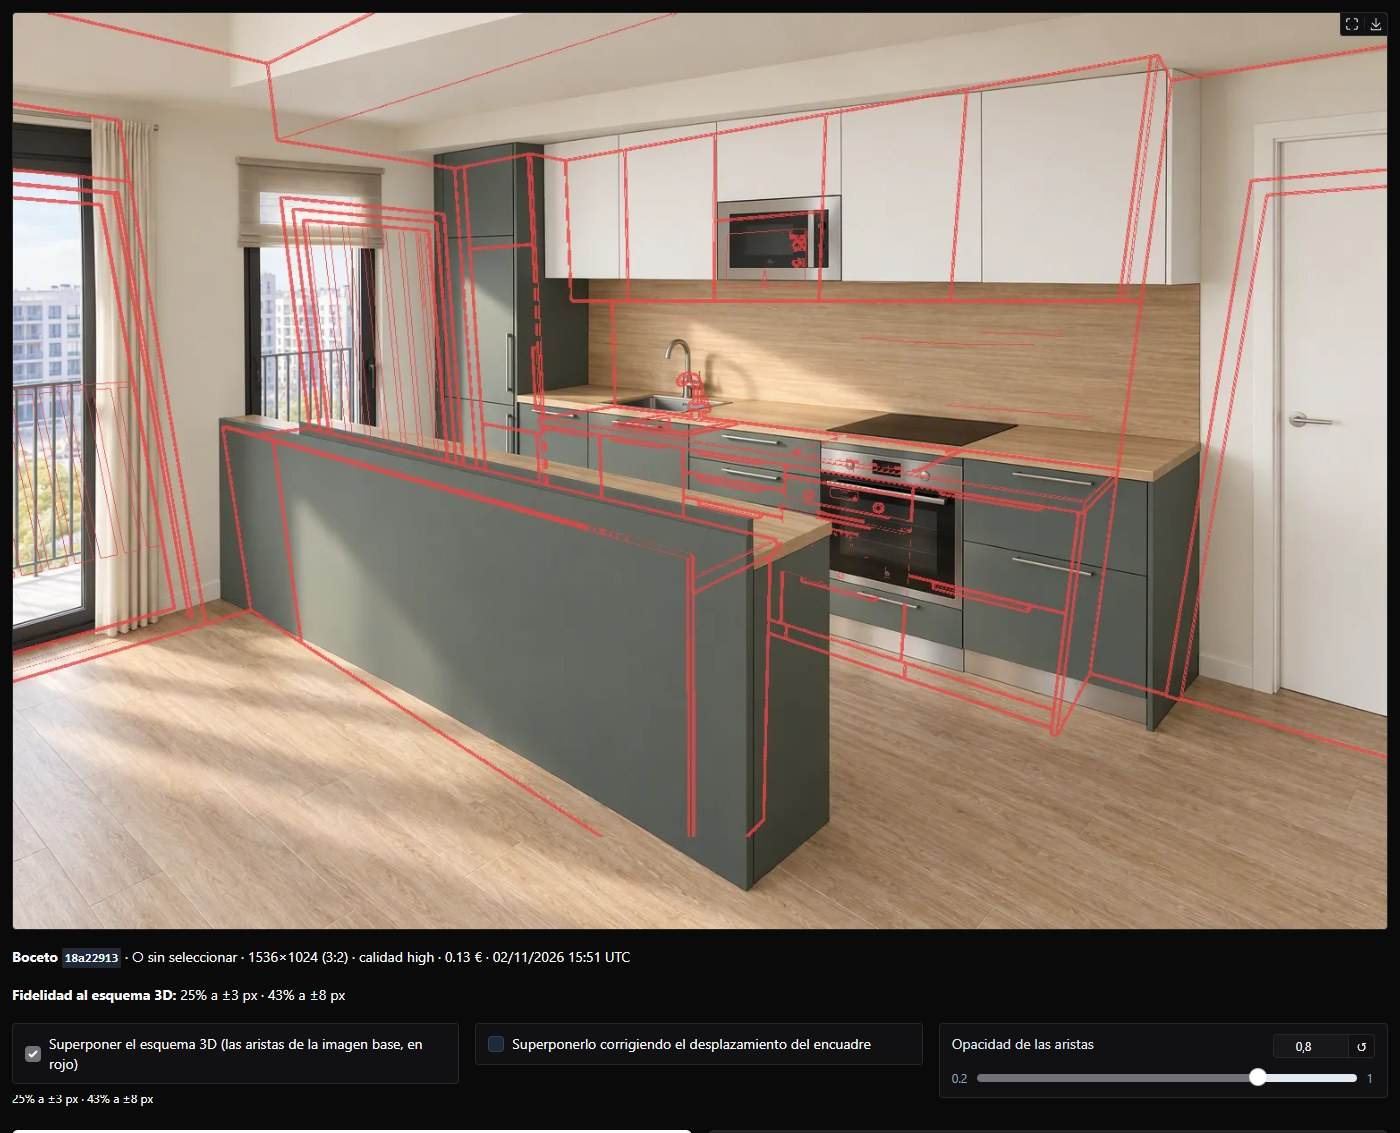
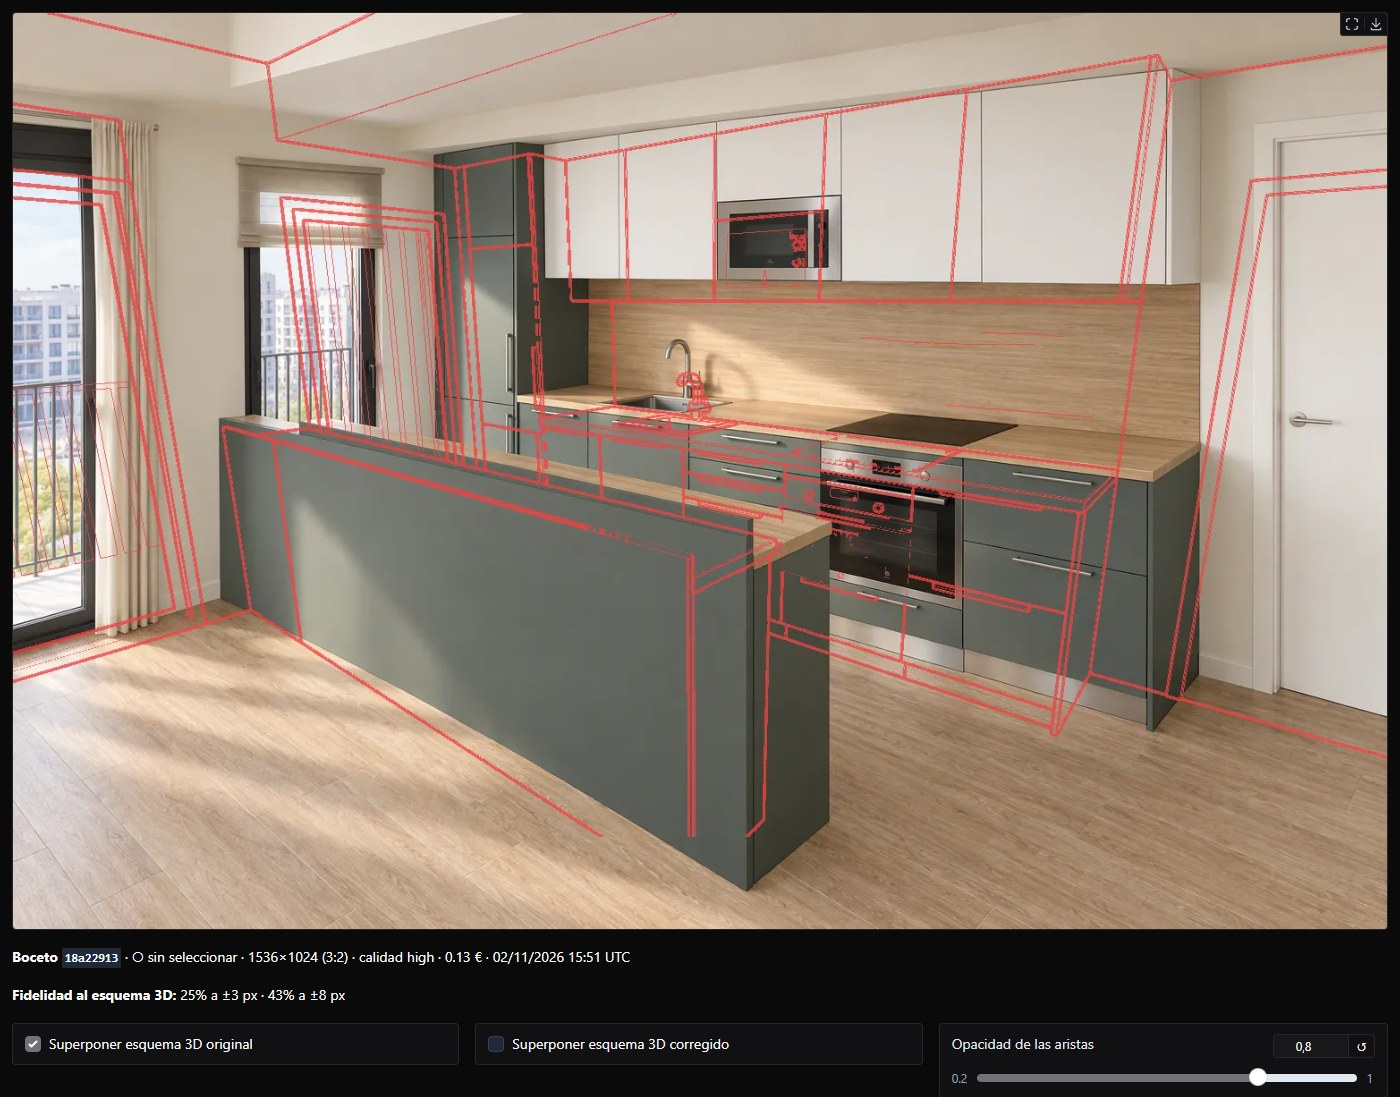
feat: paso 56 - versión 4.2.0
La geometría del esquema 3D, medida y a la vista: superponerlo sobre cualquier
imagen, saber cuánto se parece y poder componer partiendo de él. Agrupa los
Pasos 46 a 55 (B-115 a B-126).

Las entradas del CHANGELOG describen el estado final de cada función, no el
camino: la superposición se cuenta una vez, tal como queda, en lugar de
encadenar lo que cambió en los Pasos 47, 49, 51 y 55.

Rehechas las tres capturas del manual de la superposición (B-126) con la
aplicación en mock y un proyecto real; solo se navega y se fotografía, sin
generar ni modificar nada y sin ninguna llamada a IA.

diff --git a/docs/pasos/BACKLOG.md b/docs/pasos/BACKLOG.md
@@ -119,14 +119,14 @@ Elementos diferidos o pendientes de verificación. Cada entrada enlaza al paso q
 | B-113 | **Controles bloqueados mientras se procesa**: con «procesando» se podían marcar «Usar la auditoría» o «Usar el retoque», cambiar la calidad, el formato o las variantes, o escribir; deben bloquearse como los botones | Observación del usuario (2026-11-02) | [Plan 4.1.0](plan-version-4-1.md): Paso 44 | ✅ Resuelto en el [Paso 44](paso-44-controles.md) |
 | B-114 | **CI de `main` en rojo tras el Paso 44**: (1) el id `iai-confirm-delete` (Paso 43) coincidía con el patrón de las confirmaciones de coste del bloqueo, que entonces bloqueaba el «Cancelar» de la papelera; (2) las pruebas E2E pulsaban justo cuando empezaba una carga y el clic se ignoraba | [Paso 45](paso-45-version-4-1.md) | Antes de publicar la 4.1.0 | ✅ Resuelto en el [Paso 45](paso-45-version-4-1.md) |
 | B-115 | **Cuadros de texto que no se vaciaban**: las indicaciones, el cambio del retoque y las observaciones de la auditoría seguían ahí tras enviarse, al cambiar de imagen y al cambiar de proyecto (se podían enviar por error con otra imagen u otro proyecto); y las indicaciones no se guardaban con la imagen | Observación del usuario (2026-11-03) | Paso 46 | ✅ Resuelto en el [Paso 46](paso-46-textos.md) |
-| B-116 | **Geometría fiel al esquema 3D de SketchUp**: bocetos, composiciones y renders se apartan de los volúmenes del esquema base; poder superponerlo y medirlo, y acercarse lo máximo posible sin postproducción | Petición del usuario (2026-11-03) | Pasos 47 a 50 | ⏳ Medida y superposición (Paso 47), laboratorio ([Paso 48](paso-48-laboratorio-geometria.md)), desplazamiento del encuadre ([Paso 49](paso-49-encuadre.md)) y los prompts y el esquema como base de la composición ([Paso 50](paso-50-geometria-prompts.md)); falta la prueba real en `azure` |
+| B-116 | **Geometría fiel al esquema 3D de SketchUp**: bocetos, composiciones y renders se apartan de los volúmenes del esquema base; poder superponerlo y medirlo, y acercarse lo máximo posible sin postproducción | Petición del usuario (2026-11-03) | Pasos 47 a 50 | ⏳ Publicado en la 4.2.0: medida y superposición (Paso 47), laboratorio ([Paso 48](paso-48-laboratorio-geometria.md)), desplazamiento del encuadre ([Paso 49](paso-49-encuadre.md)), los prompts y el esquema como base de la composición ([Paso 50](paso-50-geometria-prompts.md)) y la superposición tal como queda ([Paso 55](paso-55-superposicion.md)). El zum se cerró sin implementar ([Paso 54](paso-54-cierre-del-zum.md), B-117); falta la prueba real en `azure` |
 | B-117 | **El zum del encuadre**: la escena generada sale más pequeña que el esquema y se ve en la superposición, pero contar píxeles cerca no lo mide bien (tres criterios probados en el [Paso 49](paso-49-encuadre.md)). Haría falta emparejar estructuras | [Paso 49](paso-49-encuadre.md) | Paso 54 | ✅ Cerrado en el [Paso 54](paso-54-cierre-del-zum.md) sin implementar (decisión del usuario): cinco criterios de cuatro familias fallan, incluido Fourier-Mellin; el zum ya se ve en la superposición y el número no cambia la decisión. La conclusión útil (partir de vistas de dos puntos de fuga y focal normal) pasa al manual |
 | B-118 | **La portada del proyecto activo, en grande**: con muchos proyectos, al elegir uno de abajo la ficha (nombre, descripción, resumen, llamadas) queda lejos de su tarjeta y se pierde de vista qué proyecto se está mirando. Repetir su portada a todo el ancho, arriba de la columna derecha | Petición del usuario (2026-11-07) | Paso 51 | ✅ Resuelto en el [Paso 51](paso-51-portada-geometria.md) |
 | B-119 | **Las medidas de la geometría, fuera de la imagen**: el dato en rojo con reborde negro sobre la superposición ([Paso 49](paso-49-encuadre.md)) tapa la escena y se lee mal. Llevarlo debajo de la casilla de cada comparativa y hacer las dos casillas excluyentes: al marcar una se desmarca la otra | Petición del usuario (2026-11-07) | Paso 51 | ✅ Resuelto en el [Paso 51](paso-51-portada-geometria.md) |
 | B-120 | **E2E intermitentes en local con Edge**: `page.goto` falla a veces con `net::ERR_ABORTED` aunque el frontend responda 200 (de 1 a 3 pruebas por tanda, distintas cada vez). Se comprobó en el [Paso 51](paso-51-portada-geometria.md) que pasa igual con el código de `main`: es del entorno local, no de un cambio. Al repetirlas sueltas pasan y en la CI (Chromium) pasan las ocho. Valorar un reintento en `ui.open()` | [Paso 51](paso-51-portada-geometria.md) | Sin fecha | ⏳ Abierto |
 | B-121 | **Prueba E2E de las superposiciones geométricas**: comprobar en el navegador el cableado, la exclusión mutua, las medidas bajo cada casilla, las vistas que aparecen y desaparecen y la vuelta al visor normal | Revisión de la PR #73 | Paso 52 | ✅ Resuelto en el [Paso 52](paso-52-pruebas-capturas-proteccion.md) |
 | B-122 | **Documentar el ciclo de trabajo para agentes**: registrar peticiones, analizar antes de proponer, esperar autorización, validar los cambios y entregar con trazabilidad hasta la revisión y el merge del usuario | Petición del usuario en este chat (2026-11-07) | Paso 53 | ✅ Resuelto en el [Paso 53](paso-53-flujo-de-trabajo.md) |
-| B-123 | **La medida de la superposición se corta bajo la casilla**: moverla a «Fidelidad al esquema 3D»; ninguna marcada o «original» muestra `fidelity()`, «corregido» muestra `alignment()` y al desmarcar vuelve la medida original | Observación del usuario (2026-11-08) | Paso 55 | ⏳ En curso; se resolverá al integrar la PR del [Paso 55](paso-55-superposicion.md) |
-| B-124 | **Aclarar los textos de las casillas de superposición**: deben decir exactamente «Superponer esquema 3D original» y «Superponer esquema 3D corregido» | Observación del usuario (2026-11-08) | Paso 55 | ⏳ En curso; se resolverá al integrar la PR del [Paso 55](paso-55-superposicion.md) |
-| B-125 | **El visor salta al cambiar la superposición**: quitar las dos imágenes apiladas y cambiar el valor del visor único, sin JavaScript de scroll | Observación del usuario (2026-11-08) | Paso 55 | ⏳ En curso; se resolverá al integrar la PR del [Paso 55](paso-55-superposicion.md) |
-| B-126 | **Actualizar las tres capturas de superposición del manual** (`bocetos-superposicion.jpg`, `composicion-superposicion.jpg`, `render-superposicion.jpg`) con los textos y la medida en su ubicación nueva; las tomará el usuario con proyectos reales | Observación del usuario (2026-11-08) | Sin fecha | ⏳ Abierto |
+| B-123 | **La medida de la superposición se corta bajo la casilla**: moverla a «Fidelidad al esquema 3D»; ninguna marcada o «original» muestra `fidelity()`, «corregido» muestra `alignment()` y al desmarcar vuelve la medida original | Observación del usuario (2026-11-08) | Paso 55 | ✅ Resuelto en el [Paso 55](paso-55-superposicion.md) |
+| B-124 | **Aclarar los textos de las casillas de superposición**: deben decir exactamente «Superponer esquema 3D original» y «Superponer esquema 3D corregido» | Observación del usuario (2026-11-08) | Paso 55 | ✅ Resuelto en el [Paso 55](paso-55-superposicion.md) |
+| B-125 | **El visor salta al cambiar la superposición**: quitar las dos imágenes apiladas y cambiar el valor del visor único, sin JavaScript de scroll | Observación del usuario (2026-11-08) | Paso 55 | ✅ Resuelto en el [Paso 55](paso-55-superposicion.md) |
+| B-126 | **Actualizar las tres capturas de superposición del manual** (`bocetos-superposicion.jpg`, `composicion-superposicion.jpg`, `render-superposicion.jpg`) con los textos y la medida en su ubicación nueva; las toma el usuario con proyectos reales | Observación del usuario (2026-11-08) | Paso 56 | ✅ Resuelto en el [Paso 56](paso-56-version-4-2.md): rehechas con el proyecto «Diverso Getafe 3 5B Cocina y Desayunero», con la aplicación en `mock` |

diff --git a/CHANGELOG.md b/CHANGELOG.md
@@ -6,17 +6,46 @@ Formato basado en [Keep a Changelog](https://keepachangelog.com/es-ES/1.1.0/); v
 
 ## [Sin publicar]
 
+## [4.2.0] — 2026-11-08
+
+La geometría de tu esquema 3D, medida y a la vista: superponerlo sobre cualquier imagen, saber
+cuánto se parece y poder componer directamente desde él. Bitácora:
+[docs/pasos/README.md](docs/pasos/README.md) (Pasos 46 a 56).
+
+Actualización desde la 4.1.0: sin cambios en el `.env` ni migración de datos. Las indicaciones
+guardadas con cada imagen (`indications`) son un campo nuevo que la 4.1.0 ignora.
+
 ### Añadido
 
-- **Superponer el esquema 3D y medir la geometría** (Paso 47, B-116): en Bocetos, Composición y
-  Render final, la casilla «Superponer el esquema 3D» muestra las aristas de la imagen base (el
-  esquema de SketchUp con la perspectiva) en rojo sobre la imagen, con su opacidad, sin tocarla;
-  y cada imagen indica su fidelidad al esquema (aristas que coinciden a ±3 y ±8 px), en su pie y
-  en su título.
-
+- **Superponer el esquema 3D y medir la geometría** (Pasos 47, 49 y 51, B-116, B-119): si la
+  imagen base es un esquema 3D (el de SketchUp con la perspectiva marcada), bajo la imagen en
+  grande de Bocetos, Composición y Render final hay dos casillas **excluyentes** con una opacidad
+  común: «Superponer esquema 3D original» pinta sus aristas en rojo sobre la imagen tal cual, y
+  «Superponer esquema 3D corregido» las mueve para que encajen lo mejor posible, útil cuando el
+  modelo ha corrido la escena entera. No se retoca nada: la superposición es una vista. La medida
+  aparece en **«Fidelidad al esquema 3D»**, bajo el título (aristas que coinciden a ±3 y ±8 px, y
+  en la corregida también cuánto se ha movido el encuadre), y el pie de cada miniatura lleva la de
+  ±8 px, para elegir la más fiel de una tanda.
+- **Componer desde el esquema 3D** (Paso 50, B-116): los dos botones de Composición tienen ahora
+  casillas para elegir qué recibe el modelo. Puedes partir de la imagen de siempre, **solo del
+  esquema 3D** —entonces es él el que se edita y la geometría se respeta más— o de las dos.
 - **Tus indicaciones, con cada imagen** (Paso 46, B-115): lo que escribes al generar bocetos,
   composiciones y renders finales queda guardado con cada imagen (`indications`) y se ve en su
   trazabilidad; las observaciones de la auditoría, en su informe.
+- **La portada del proyecto activo, en grande** (Paso 51, B-118): con muchos proyectos, al elegir
+  uno del final de la galería su ficha quedaba lejos de su tarjeta y se perdía de vista cuál
+  estabas mirando. Ahora su portada se repite a todo el ancho, encima de la ficha.
+
+### Cambiado
+
+- **Los prompts de imagen ya no abren el plano** (Paso 50, B-116): se retiran de las
+  instrucciones el «gran angular moderado» y las «verticales rectas» del render final —pedían
+  justo el defecto que perseguíamos— y los tres prompts llevan un bloque de cámara que manda
+  conservar el encuadre del esquema.
+- **Consejo nuevo sobre la vista de SketchUp** (Paso 54, B-117) en el manual: exporta la vista
+  como una fotografía de interiores al uso, con dos puntos de fuga y focal normal. Medido sobre la
+  misma escena, a 60 mm la fidelidad fue del 48–53 % y con un gran angular equivalente bajó al
+  42–43 %.
 
 ### Corregido
 
@@ -384,6 +413,7 @@ cada etapa.
   escalada de privilegios, límites de recursos), usuario configurable (`APP_UID`/`APP_GID`) y
   comando de papelera (`listar`, `restaurar`, `vaciar` con confirmación).
 
+[4.2.0]: https://github.com/SergioVelmay/InteriorAI/releases/tag/v4.2.0
 [4.1.0]: https://github.com/SergioVelmay/InteriorAI/releases/tag/v4.1.0
 [4.0.0]: https://github.com/SergioVelmay/InteriorAI/releases/tag/v4.0.0
 [3.0.0]: https://github.com/SergioVelmay/InteriorAI/releases/tag/v3.0.0

diff --git a/docs/pasos/paso-56-version-4-2.md b/docs/pasos/paso-56-version-4-2.md
@@ -1,0 +1,64 @@
+# Paso 56 — Versión 4.2.0
+
+## 1. Objetivo
+
+Publicar la 4.2.0 con lo hecho en los Pasos 46 a 55 (B-115 a B-126). La línea principal es
+**B-116**: que bocetos, composiciones y renders respeten los volúmenes del esquema 3D de
+SketchUp, poder superponerlo y medir cuánto se parecen.
+
+Antes de publicar, rehacer las tres capturas del manual que quedaron desfasadas con el
+[Paso 55](paso-55-superposicion.md) (**B-126**).
+
+## 2. Decisiones tomadas (usuario)
+
+| Tema | Decisión |
+|------|----------|
+| Versión | **4.2.0** (2026-11-08): funciones nuevas sin cambios incompatibles |
+| Capturas | Rehacer las tres de la superposición **antes** de publicar, para que la web no salga con una interfaz que ya no existe |
+| Publicación | Etiqueta y Release solo con el OK del usuario, tras el merge y con la CI de `main` en verde |
+
+## 3. Implementación
+
+| Parte | Cambios |
+|-------|---------|
+| Versión | `4.2.0` en los cuatro `pyproject.toml` (y en `/health`), `uv.lock` y `docs/referencia/openapi.json` |
+| CHANGELOG | «Sin publicar» pasa a `[4.2.0] — 2026-11-08`. Las entradas describen el **estado final** de cada función, no el camino: la superposición se cuenta una vez, tal como queda tras el Paso 55, en lugar de encadenar lo que cambió en los Pasos 47, 49, 51 y 55 |
+| README y web | Versión 4.2.0; página Versiones con la fila nueva y la nota «Desde la 4.1.0 a la 4.2.0» (sin cambios en el `.env` ni migración; `indications` es un campo nuevo que la 4.1.0 ignora) |
+| Capturas (B-126) | `bocetos-superposicion.jpg`, `composicion-superposicion.jpg` y `render-superposicion.jpg`, rehechas |
+| Bitácora | Cierre del Paso 55 con su merge; B-123 a B-126 resueltas; B-116 pasa a «publicado en la 4.2.0» y conserva lo único que le falta, la prueba real en `azure` |
+
+### Las capturas (B-126)
+
+Tomadas con Playwright sobre la aplicación levantada en `AI_PROVIDER_MODE=mock`, con el proyecto
+real **«Diverso Getafe 3 5B Cocina y Desayunero»**, que tiene esquema 3D en las tres etapas. El
+guion solo navega, marca una casilla y fotografía: **no genera ni modifica nada** y no hubo
+ninguna llamada a IA.
+
+Cada captura recoge el visor, el título, el apartado «Fidelidad al esquema 3D», las dos casillas y
+la opacidad. La de Composición usa la casilla **corregida** a propósito, porque esa imagen tiene un
+desplazamiento real del encuadre (6 px a la izquierda · 32 px arriba) y así se ve para qué sirve.
+
+## 4. Validación
+
+| Prueba | Resultado |
+|--------|-----------|
+| `uv run ruff check .` y `uv run ruff format --check .` | ✅ |
+| `uv run pytest` | ✅ 388 passed (incluye el esquema OpenAPI con la versión nueva) |
+| `uvx pre-commit run --all-files` | ✅ |
+| `uv run --group docs mkdocs build --strict` | ✅ |
+| `/health` tras reconstruir Docker | ✅ `version` 4.2.0, `mode` `mock` |
+| CI de la PR | pendiente de anotar |
+
+Coste real del paso: **0 €**. Ninguna llamada a IA.
+
+## 5. Estado final
+
+Pendiente de completar tras el merge.
+
+## 6. Pendiente / futuro
+
+- **B-116**: queda la prueba real en `azure` (una composición con boceto + esquema y otra solo con
+  el esquema, sobre la misma partida, midiendo las dos con la superposición). Unos 0,24 €,
+  anunciando antes cada llamada.
+- **B-024** (Gradio sigue exigiendo `pillow<13`), **B-103** (Material for MkDocs llega al fin de
+  vida el 5 de mayo de 2027) y **B-120** (E2E intermitentes en local con Edge) siguen abiertas.

diff --git a/docs/pasos/README.md b/docs/pasos/README.md
@@ -86,7 +86,9 @@ Después de la 4.0.0:
 Versión 4.1.0 (publicada el 2026-11-02): [plan de acción](plan-version-4-1.md), Pasos 41 a 45, entradas B-107 a
 B-113 del [backlog](BACKLOG.md).
 
-Después de la 4.1.0 (se agruparán varios arreglos antes de la próxima versión):
+Versión 4.2.0 (publicada el 2026-11-08): sin plan previo; agrupa los Pasos 46 a 56 y las entradas
+B-115 a B-126 del [backlog](BACKLOG.md). La línea principal es B-116, la geometría fiel al esquema
+3D de SketchUp.
 
 | Paso | Documento | Rama | Estado |
 |------|-----------|------|--------|
@@ -99,7 +101,8 @@ Después de la 4.1.0 (se agruparán varios arreglos antes de la próxima versió
 | 52 | [Pruebas E2E, capturas del manual y protección de datos](paso-52-pruebas-capturas-proteccion.md) (B-121) | `feat/paso-52` | ✅ Cerrado |
 | 53 | [Modo de proceder del proyecto](paso-53-flujo-de-trabajo.md) (B-122) | `feat/paso-53` | ✅ Cerrado |
 | 54 | [Cerrar el zum del encuadre](paso-54-cierre-del-zum.md) (B-117) | `feat/paso-54` | ✅ Cerrado |
-| 55 | [Superposición del esquema 3D](paso-55-superposicion.md) (B-123, B-124, B-125) | `feat/paso-55` | ⏳ En revisión (PR #79) |
+| 55 | [Superposición del esquema 3D](paso-55-superposicion.md) (B-123, B-124, B-125) | `feat/paso-55` | ✅ Cerrado |
+| 56 | [Versión 4.2.0](paso-56-version-4-2.md) (B-126) | `feat/paso-56` | ✅ Cerrado |
 
 ## Plantilla de documento de paso
 

diff --git a/docs/proyecto/versiones.md b/docs/proyecto/versiones.md
@@ -10,6 +10,7 @@ El detalle de cada versión está en el
 
 | Versión | Fecha | Lo principal |
 |---------|-------|--------------|
+| [4.2.0](https://github.com/SergioVelmay/InteriorAI/releases/tag/v4.2.0) | 2026-11-08 | Superponer el esquema 3D de SketchUp sobre cualquier imagen y medir su fidelidad, componer partiendo del propio esquema y tus indicaciones guardadas con cada imagen |
 | [4.1.0](https://github.com/SergioVelmay/InteriorAI/releases/tag/v4.1.0) | 2026-11-02 | Descartar y recuperar candidatas, vista previa al subir una referencia, botones y controles bloqueados mientras se procesa |
 | [4.0.0](https://github.com/SergioVelmay/InteriorAI/releases/tag/v4.0.0) | 2026-10-29 | Prompts más precisos, sin la compatibilidad con la v1 (esquema de datos v3), esta documentación y precios contrastados con la factura real |
 | [3.0.0](https://github.com/SergioVelmay/InteriorAI/releases/tag/v3.0.0) | 2026-10-27 | Pulido completo de la interfaz tras un caso real y roles con nombres nuevos |
@@ -22,6 +23,11 @@ El detalle de cada versión está en el
 git pull
 docker compose up --build -d
 ```
+
+### Desde la 4.1.0 a la 4.2.0
+
+Sin cambios en el `.env` ni migración de datos. Las indicaciones que escribes al generar quedan
+guardadas con cada imagen en un campo nuevo (`indications`) que la 4.1.0 ignora.
 
 ### Desde la 4.0.0 a la 4.1.0
 

diff --git a/docs/pasos/paso-55-superposicion.md b/docs/pasos/paso-55-superposicion.md
@@ -63,10 +63,10 @@ modo `mock` (`/health`: `status=ok`, `mode=mock`).
 
 ## 5. Estado final
 
-⏳ En revisión — rama `feat/paso-55`, PR #79. No mergeada; pendiente de revisión del usuario.
-B-123, B-124 y B-125 quedan abiertos hasta la integración, conforme a
-[`docs/agent/flujo_de_trabajo.md`](../agent/flujo_de_trabajo.md) («no marques una entrada como
-resuelta antes de que el cambio esté mergeado en `main`»).
+✅ Cerrado — rama `feat/paso-55`, PR [#79](https://github.com/SergioVelmay/InteriorAI/pull/79)
+revisada y mergeada por el usuario (2026-11-08, commit `fa2e760`), que comprobó el resultado en la
+aplicación. B-123, B-124 y B-125 quedan marcados como resueltos en el
+[Paso 56](paso-56-version-4-2.md), ya integrados; las capturas del manual (B-126) se rehacen allí.
 
 ## 6. Pendiente / futuro
 

diff --git a/README.md b/README.md
@@ -9,7 +9,7 @@ Estudio de interiorismo asistido por IA con **supervisión humana en cada etapa*
 planos, muebles e inspiración) genera bocetos, una composición fiel y una fotografía realista de
 cada habitación. **Nada avanza sin tu elección** y cada acción con coste lo muestra antes.
 
-Construido con FastAPI, Gradio y Azure AI Foundry. Versión **4.1.0** ([CHANGELOG](CHANGELOG.md)).
+Construido con FastAPI, Gradio y Azure AI Foundry. Versión **4.2.0** ([CHANGELOG](CHANGELOG.md)).
 
 📖 **Documentación:** <https://sergiovelmay.github.io/InteriorAI/> (instalación, configuración,
 manual de usuario y referencia técnica).
